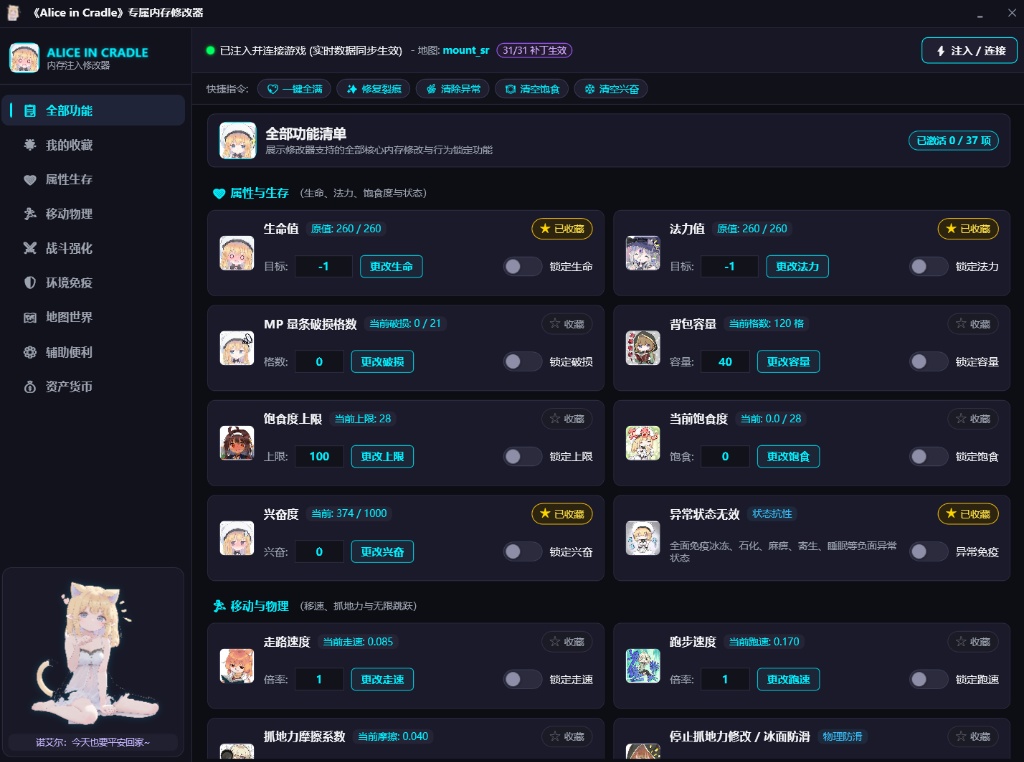
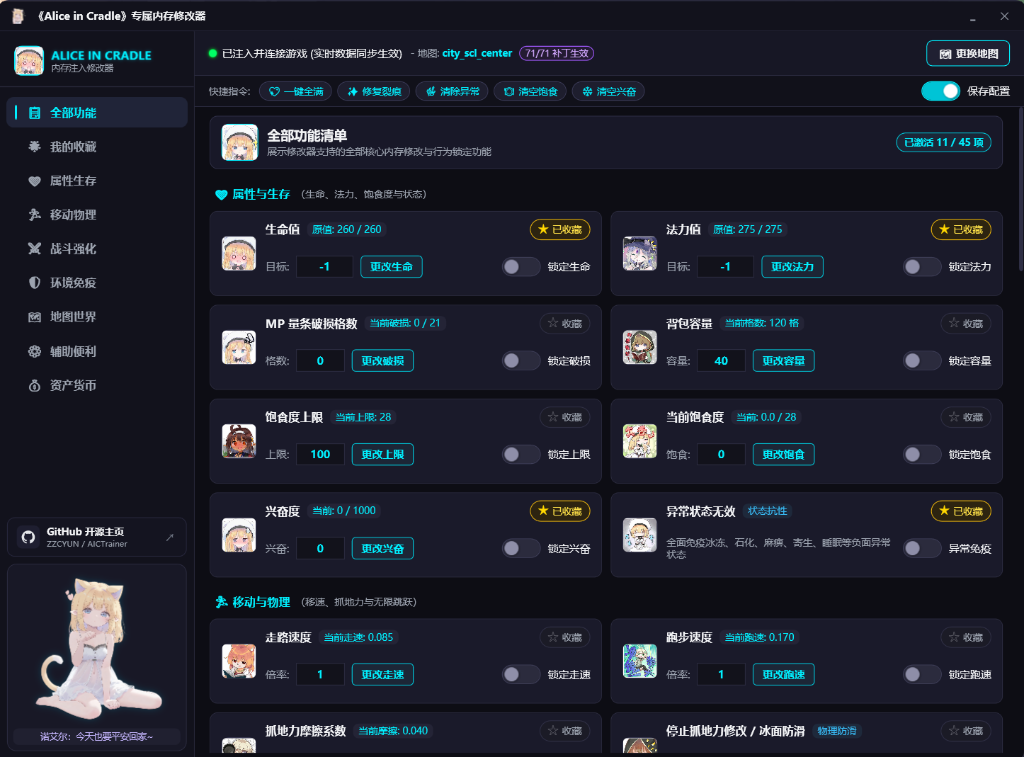
chore: 升级版本号至1.1.7.5，更新README与最新界面预览截图

diff --git a/README.md b/README.md
@@ -26,14 +26,14 @@
 [ AICModPayload (C# / netstandard2.1) ]
         │
         ├── Mono 虚拟机进程内驻留 (mono_runtime_invoke)
-        ├── ResilientPatcher (60 项沙箱隔离的容错 Harmony 补丁)
+        ├── ResilientPatcher (71 项沙箱隔离的容错 Harmony 补丁)
         └── 动态反射与事件拦截 (零硬编码内存地址，纯元数据动态绑定)
 ```
 
 1. **零硬编码内存基址（Zero Hardcoded Addresses）**
    - 不依赖容易在版本更新后移位的静态偏移（如 `base+0x12345`），全部通过游戏 Mono 托管堆内存的对象引用、类元数据及反射查找。
 2. **细粒度沙箱容错补丁管理器（ResilientPatcher）**
-   - 包含 60 项独立沙箱补丁，全部隔离在独立的 Try-Catch 沙箱内。
+   - 包含 71 项独立沙箱补丁，全部隔离在独立的 Try-Catch 沙箱内。
    - 即使游戏小版本更新修改了其中某一个函数的形参，也只会安全跳过该单一补丁，绝不会导致整个修改器瘫痪或游戏闪退。
 3. **安全双向 IPC 实时同步**
    - 客户端与注入模块通过 Local Loopback TCP 进行轻量级二进制/JSON 协议通信，双向心跳保活与状态秒级同步。
@@ -44,7 +44,7 @@
 
 ---
 
-## 🎮 核心功能一览 (46 项)
+## 🎮 核心功能一览 (47 项)
 
 ### 1. 属性与生存 (Survival)
 - **生命值 (HP)**：实时读取当前值，支持自定义修改目标生命与持续锁定。
@@ -84,6 +84,7 @@
 - **酸池与毒气免伤**：完全免疫地图强酸液体与毒气区域腐蚀。
 
 ### 5. 地图与世界机制 (World)
+- **更换地图 (官方原生传送)**：在已进入游戏后，顶栏右侧即时激活【🗺 更换地图】按钮，支持弹窗按区域筛选与中英双语检索全图 270+ 场景（城镇、森林、学院、地下研究所、矿区、圣母石等）；直接调用游戏底层官方原生 `_DEBUG_GOTO_MAP` 事件体系，并辅以全量安全落脚点自动回退链（WarpTo / Bench / Start / 默认位置），彻底杜绝卡墙与坐标报错。
 - **全天候长椅快速移动**：打破夜晚危险、恶劣天气与剧情封锁，长椅传送随时放行。
 - **随时随地大地图传送**：无需寻找长椅，大地图界面点击任意长椅节点直接跨区域瞬移。
 - **地图危险等级**：实时读取、自定义修改并支持锁定当前地图危险度。
@@ -170,7 +171,7 @@ dotnet publish src/AICTrainer/AICTrainer.csproj -c Release -r win-x64 --self-con
 
 在此明确承认并感谢 AI 在以下研发环节提供的核心协助：
 - **Unity Mono 底层逆向与类型分析**：动态解析游戏托管对象拓扑，梳理核心数据结构与事件钩子。
-- **ResilientPatcher 容错体系设计**：为全部 60 项补丁构建独立的异常隔离沙箱，确保跨版本更新稳定性。
+- **ResilientPatcher 容错体系设计**：为全部 71 项补丁构建独立的异常隔离沙箱，确保跨版本更新稳定性。
 - **现代化 WPF 界面与贴纸系统**：设计霓虹暗黑主题风格与切图自适应渲染扩展。
 - **代码重构与工程化**：模块解耦、发布脚本优化与项目全流程文档沉淀。
 
